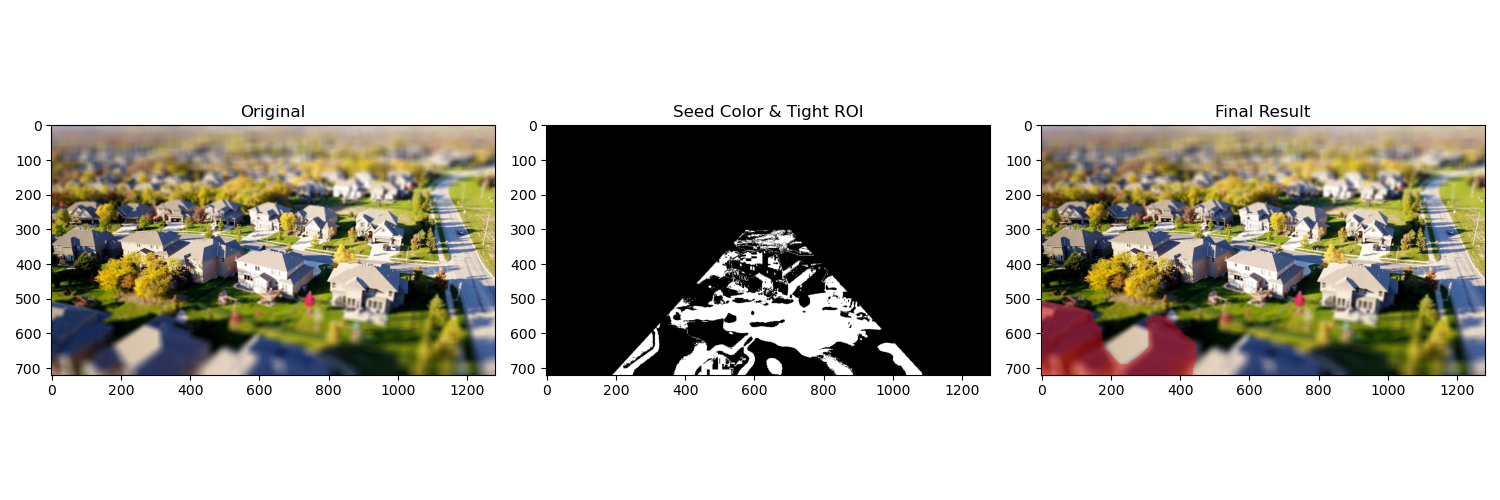
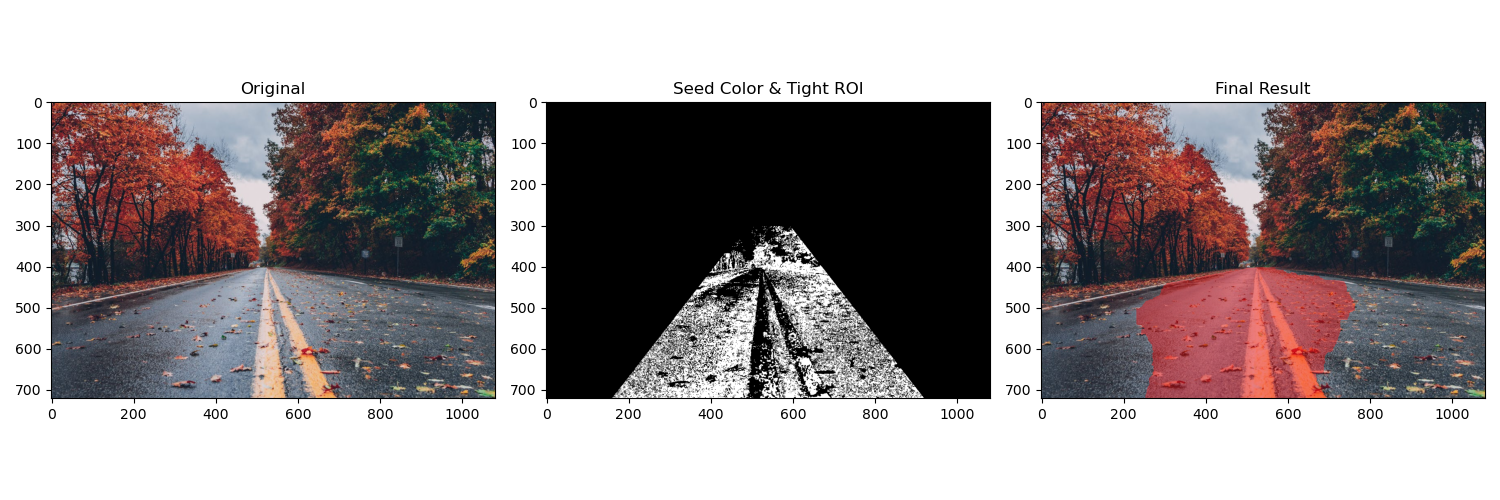
docs: remove incorrect road images and update statistics

diff --git a/README.md b/README.md
@@ -65,13 +65,13 @@ graph TD
 *Fig 1.6 處理流程：原始影像 ➜ 綜合特徵遮罩 ➜ 最終優化結果 (Image 6)*
 
 ### 3. 測試統計 (Benchmarking)
-針對 9 張測試影像進行自動化評估，結果如下：
+針對 7 張測試影像進行自動化評估，結果如下：
 
 | 指標 | 數值 | 說明 |
 | :--- | :--- | :--- |
-| **平均道路面積 (Avg Area)** | 13.02% | 偵測到之道路佔影像比例 |
-| **平均實心度 (Avg Solidity)** | 1.895 | 數值愈高代表道路區域愈完整且無破洞 |
-| **平均鋸齒度 (Avg Jagged)** | 0.04395 | 數值愈低代表邊界愈平滑 |
+| **平均道路面積 (Avg Area)** | 15.24% | 偵測到之道路佔影像比例 |
+| **平均實心度 (Avg Solidity)** | 2.190 | 數值愈高代表道路區域愈完整且無破洞 |
+| **平均鋸齒度 (Avg Jagged)** | 0.04325 | 數值愈低代表邊界愈平滑 |
 
 ---
 